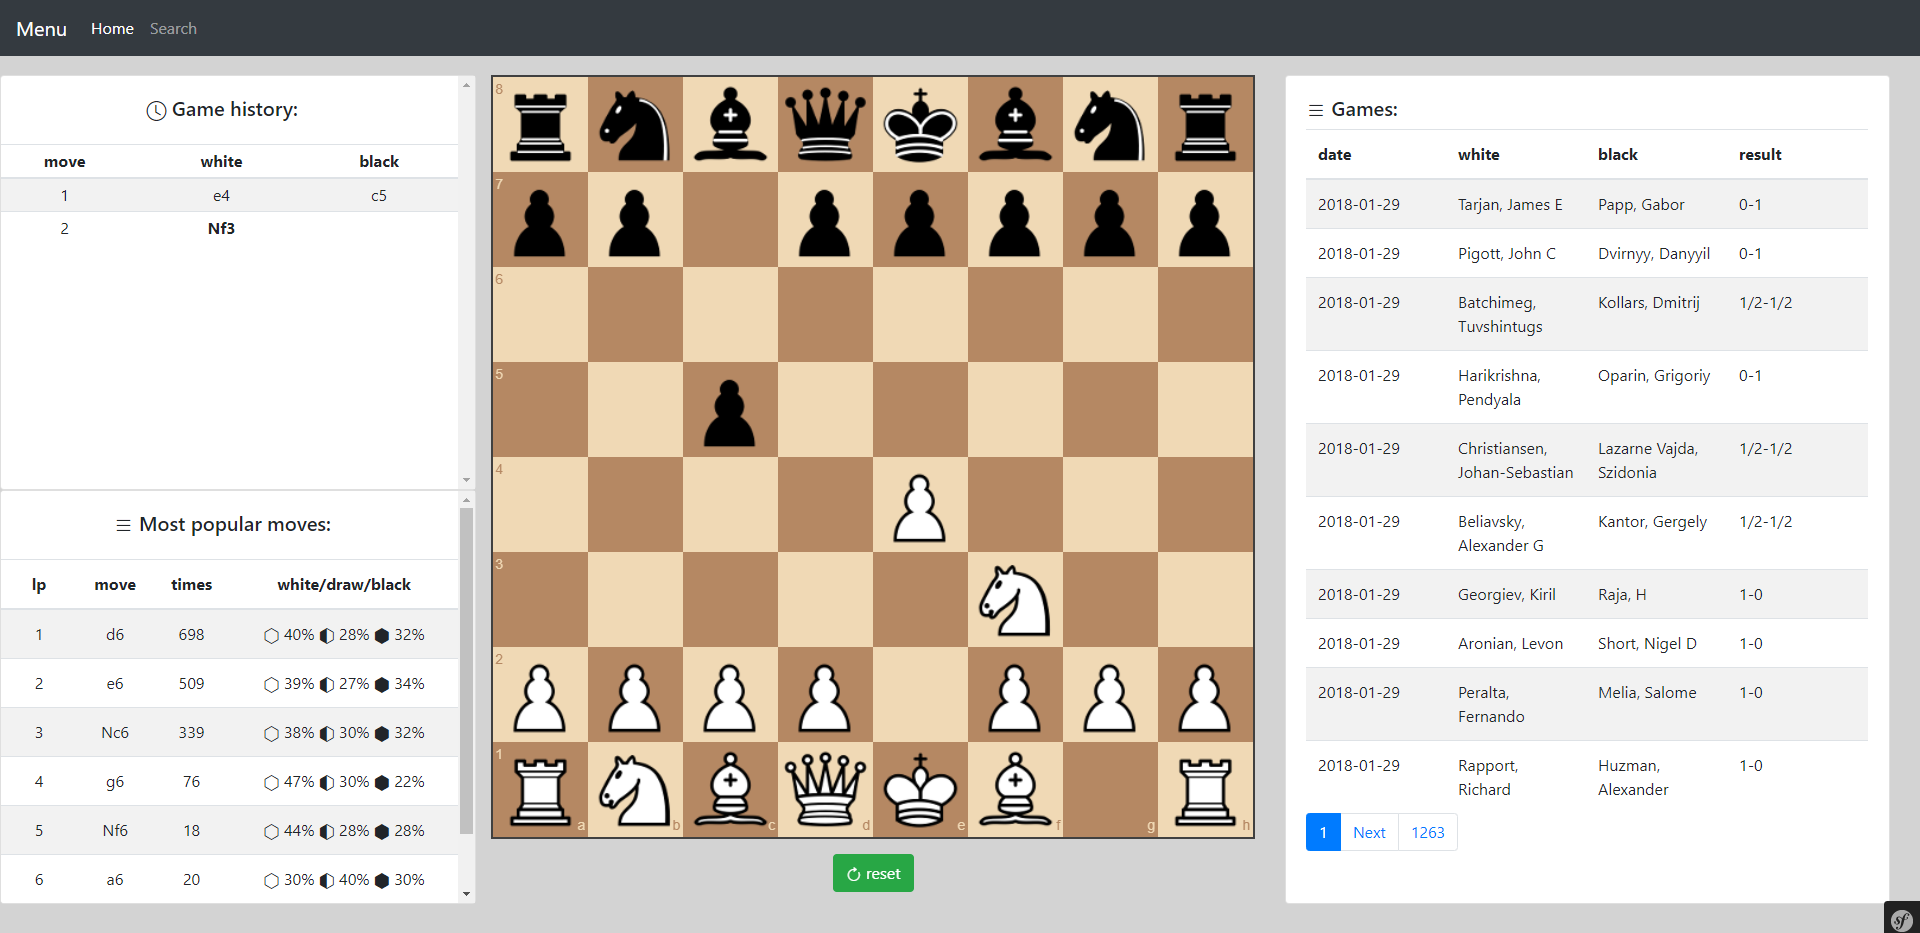
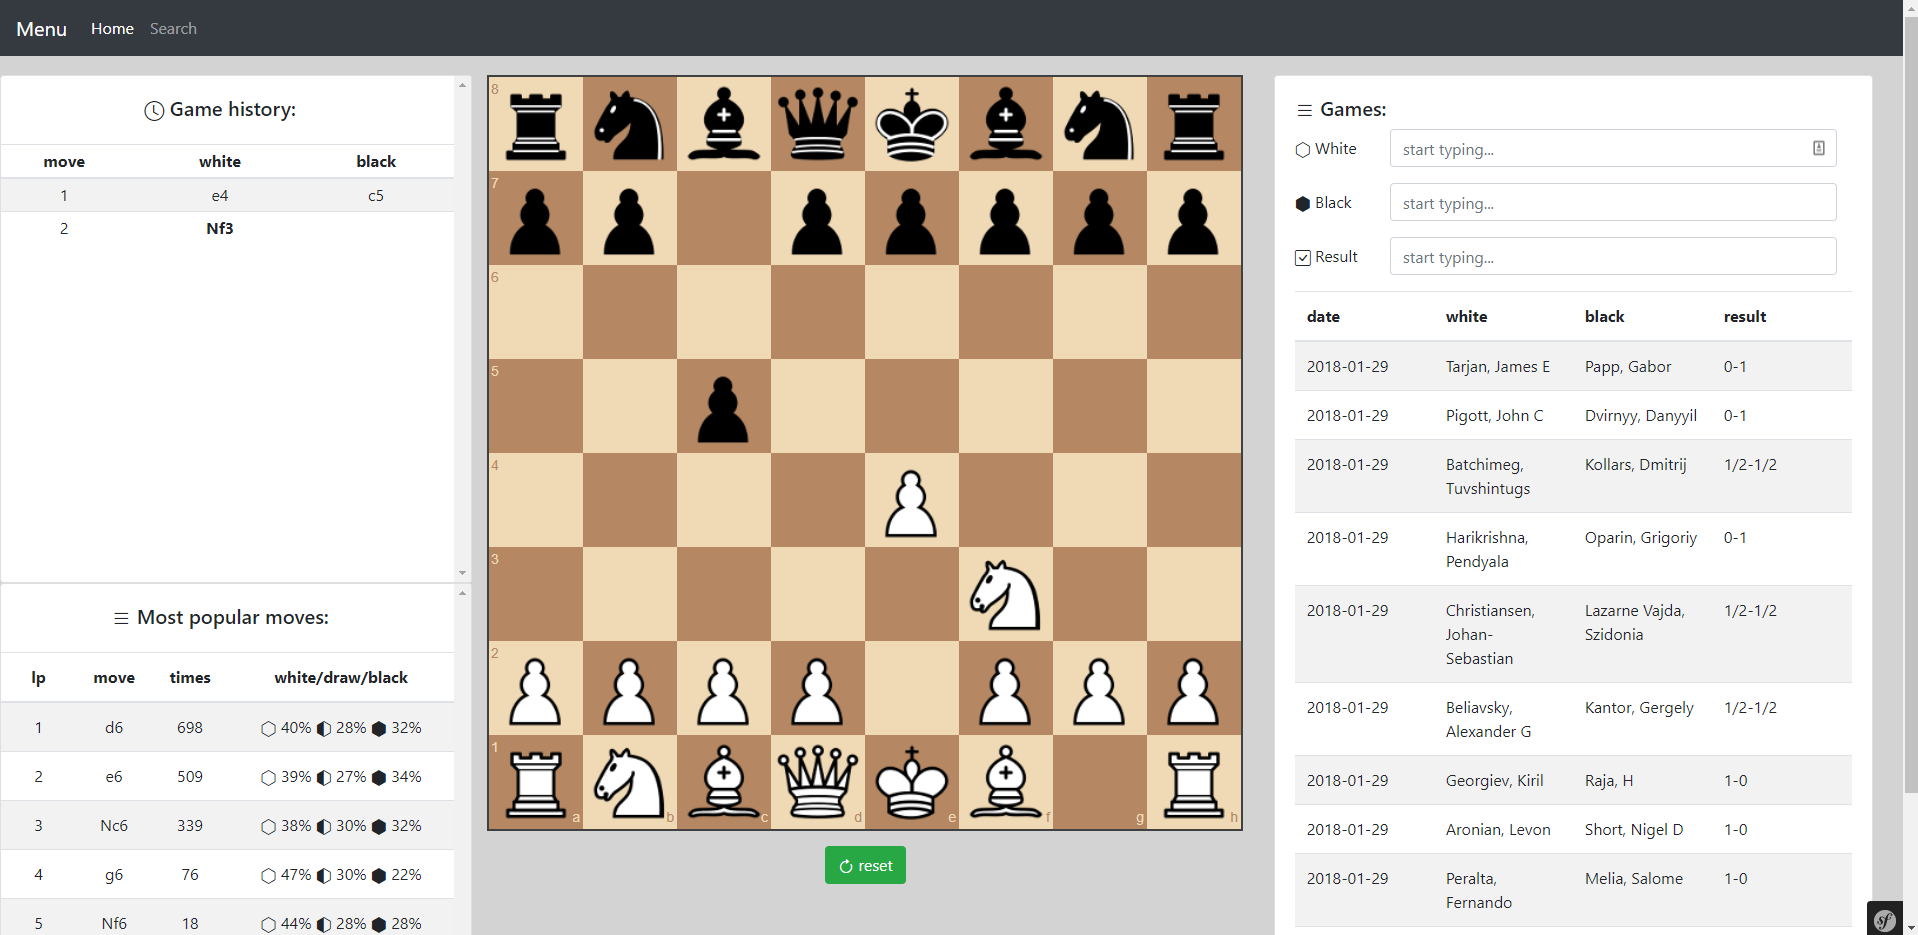
- implemented basic filters

diff --git a/assets/js/components/GameTable.vue b/assets/js/components/GameTable.vue
@@ -7,6 +7,27 @@
          Games:
       </h5>
 
+      <form>
+        <div class="form-group row">
+          <label for="inputEmail3" class="col-sm-2 col-form-label"><i class="bi bi-hexagon"></i> White</label>
+          <div class="col-sm-10">
+            <input v-model="whitePlayerFilter" type="string" class="form-control" id="inputEmail3" placeholder="start typing...">
+          </div>
+        </div>
+        <div class="form-group row">
+          <label for="inputEmail3" class="col-sm-2 col-form-label"><i class="bi bi-hexagon-fill"></i> Black</label>
+          <div class="col-sm-10">
+            <input v-model="blackPlayerFilter" type="string" class="form-control" id="inputEmail3" placeholder="start typing...">
+          </div>
+        </div>
+        <div class="form-group row">
+          <label for="inputEmail3" class="col-sm-2 col-form-label"><i class="bi bi-check-square"></i> Result</label>
+          <div class="col-sm-10">
+            <input v-model="resultFilter" type="string" class="form-control" id="inputEmail3" placeholder="start typing...">
+          </div>
+        </div>
+      </form>
+
       <table class="table table-striped" style="table-layout: fixed;">
         <thead>
         <tr>
@@ -30,7 +51,7 @@
               <li @click="firstPage" class="page-item" v-bind:class="{ active: activeFirst}"><a class="page-link" href="#">1</a></li>
               <li v-if="gamesDb.page > 1" @click="previousPage" class="page-item"><a class="page-link" href="#">Previous</a></li>
               <li v-if="gamesDb.page < gamesDb.totalPages" @click="nextPage" class="page-item"><a class="page-link" href="#">Next</a></li>
-              <li @click="lastPage" class="page-item" v-bind:class="{ active: activeLast}"><a class="page-link" href="#">{{ gamesDb.totalPages }}</a></li>
+              <li v-if="gamesDb.totalPages > 1" @click="lastPage" class="page-item" v-bind:class="{ active: activeLast}"><a class="page-link" href="#">{{ gamesDb.totalPages }}</a></li>
             </ul>
 
         </tbody>
@@ -51,6 +72,13 @@ export default {
   name: "GameTable",
   data: function () {
     return {
+      eloWhiteFromFilter: '',
+      eloWhiteToFilter: '',
+      eloBlackFromFilter: '',
+      eloBlackToFilter: '',
+      whitePlayerFilter: '',
+      blackPlayerFilter: '',
+      resultFilter: '',
       games: [],
       errors: [],
       activeFirst: true,
@@ -106,7 +134,15 @@ export default {
   computed: {
     gamesDb: createInstance('games', {
       page: 1,
-      pageSize: 10
+      pageSize: 10,
+      args () {
+        let result = {};
+        result.whitePlayerFilter = this.whitePlayerFilter;
+        result.blackPlayerFilter = this.blackPlayerFilter;
+        result.resultFilter = this.resultFilter;
+
+        return result;
+      }
     }),
     activeGameRow: function () {
       return this.$store.getters.activeGameRow;

diff --git a/assets/js/store/store.js b/assets/js/store/store.js
@@ -10,7 +10,7 @@ import * as Ajax from "../modules/ajaxCalls";
 Vue.use(Vuex)
 
 export async function fetchGames (opts) {
-    const games = await window.fetch(`/get_paginated_games?page=${opts.page}&limit=${opts.pageSize}`)
+    const games = await window.fetch(`/get_paginated_games?page=${opts.page}&limit=${opts.pageSize}&whitePlayerFilter=${opts.args.whitePlayerFilter}&blackPlayerFilter=${opts.args.blackPlayerFilter}&resultFilter=${opts.args.resultFilter}`)
         .then(response => {
             return response.json();
         })

diff --git a/src/Repository/GameRepository.php b/src/Repository/GameRepository.php
@@ -32,10 +32,32 @@ class GameRepository extends ServiceEntityRepository
         $em->clear();
     }
 
-    public function getPaginatedGames($page, $pageSize) {
-        $query = $this->createQueryBuilder('g')
-            ->orderBy('g.date', 'DESC')
-            ->getQuery();
+    public function getPaginatedGames($page, $pageSize, $whitePlayer, $blackPlayer, $result) {
+        if (!$whitePlayer && !$blackPlayer && !$result) {
+            $query = $this->createQueryBuilder('g')
+                ->orderBy('g.date', 'DESC')
+                ->getQuery();
+        }
+        else
+        {
+            $query = $this->createQueryBuilder('g');
+
+            if ($whitePlayer) {
+                $query->andWhere('g.white LIKE :white')
+                ->setParameter('white', '%'.$whitePlayer.'%');
+            }
+            if ($blackPlayer) {
+                $query->andWhere('g.black LIKE :black')
+                    ->setParameter('black', '%'.$blackPlayer.'%');
+            }
+            if ($result) {
+                $query->andWhere('g.result = :result')
+                ->setParameter('result', $result);
+            }
+
+            $query->orderBy('g.date', 'DESC')
+                ->getQuery();
+        }
 
         $paginator = new \Doctrine\ORM\Tools\Pagination\Paginator($query);
 

diff --git a/src/Controller/ApiController.php b/src/Controller/ApiController.php
@@ -55,8 +55,11 @@ class ApiController extends AbstractController
     {
         $page = $request->query->get('page');
         $limit = $request->query->get('limit');
+        $whitePlayer = $request->query->get('whitePlayerFilter');
+        $blackPlayer = $request->query->get('blackPlayerFilter');
+        $result = $request->query->get('resultFilter');
 
-        $result = $this->gameService->getGamesInfoRange($page, $limit);
+        $result = $this->gameService->getGamesInfoRange($page, $limit, $whitePlayer, $blackPlayer, $result);
 
         return new JsonResponse([$result]);
     }

diff --git a/src/Service/GameService.php b/src/Service/GameService.php
@@ -33,10 +33,10 @@ class GameService
         $this->gameRepository->flush();
     }
 
-    public function getGamesInfoRange($page, $pageSize = 10)
+    public function getGamesInfoRange($page, $pageSize = 10, $whitePlayer, $blackPlayer, $result)
     {
         $games = [];
-        $items = $this->gameRepository->getPaginatedGames($page, $pageSize);
+        $items = $this->gameRepository->getPaginatedGames($page, $pageSize, $whitePlayer, $blackPlayer, $result);
 
         foreach ($items as $pageItem) {
             $games[] = [

diff --git a/README.md b/README.md
@@ -1,5 +1,6 @@
 ## Table of contents
 * [General info](#general-info)
+* [Architecture](#architecture)
 * [Technologies](#technologies)
 * [Features](#features)
 * [Installation](#installation)
@@ -7,6 +8,10 @@
 
 ## General info
 Symfony/vuex web based demo to explore/view chess games from the database.
+
+## Architecture
+Entire front-end is made using Vue.js/Vuex using SPA architecture.
+Symfony framework acts as a backend API and is used to communicate with the database.
 
 ## Technologies
 Project is created with:
@@ -21,13 +26,13 @@ Project is created with:
 
 ## Features
 * importing pgn games into DB from pgn file using symfony command
-* displaying paginated clickable games from db
+* displaying paginated games from the db
 * going through the games with next/prev buttons
-* displaying most popular moves in the position
+* displaying most popular moves in the current position
 * playing the position from the start (useful for opening preparation)
+* basic filters (white/black player, game result)
 
 ## To do
-* displaying game result for the most popular moves
 * games searching
 * position searching
 * stockfish.js integration to analyse games
@@ -60,3 +65,4 @@ php bin/console app:import-games --env=prod --no-debug filename
 ## Screenshots
 ![Opening book](public/img/screen1.png)
 ![Game explorer](public/img/screen2.png)
+![Filters example](public/img/screen3.png)
